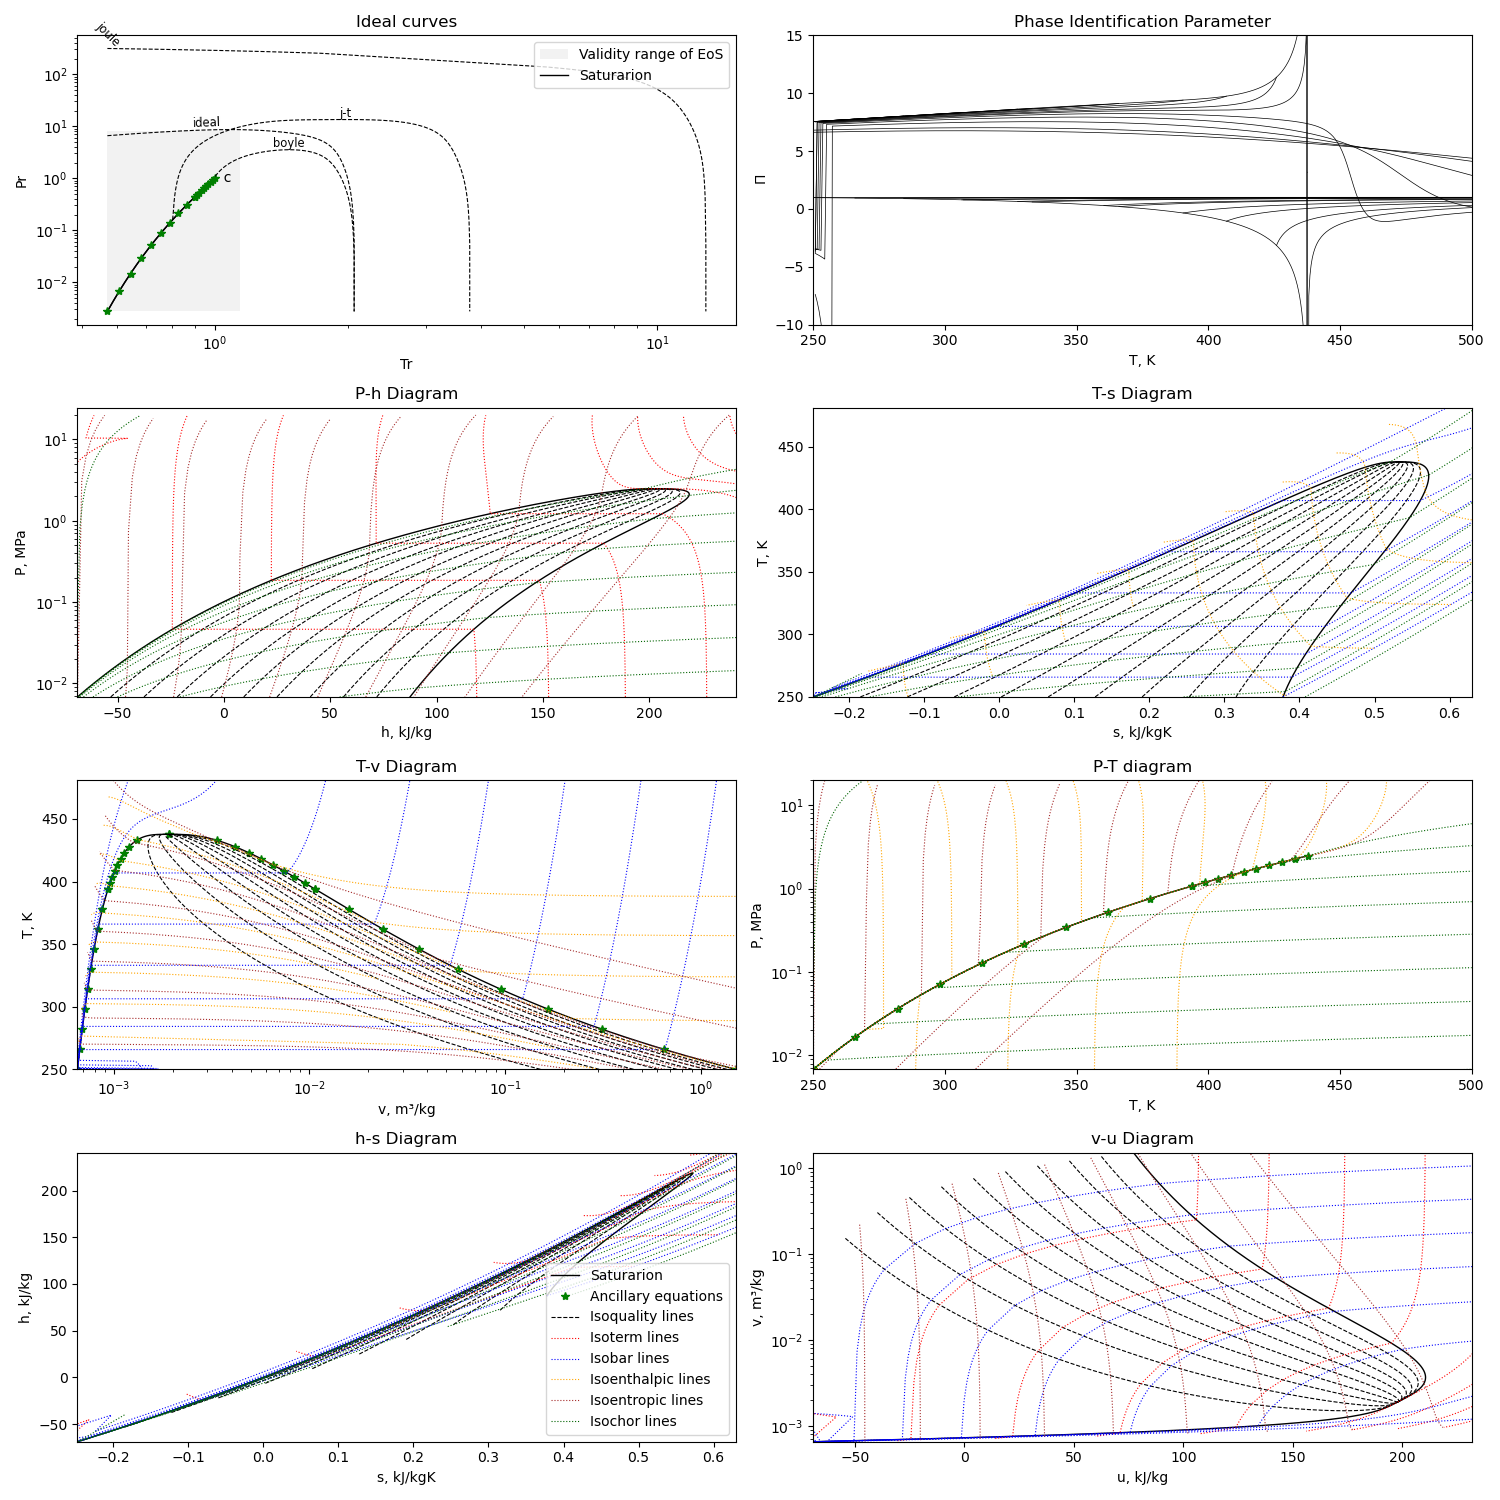
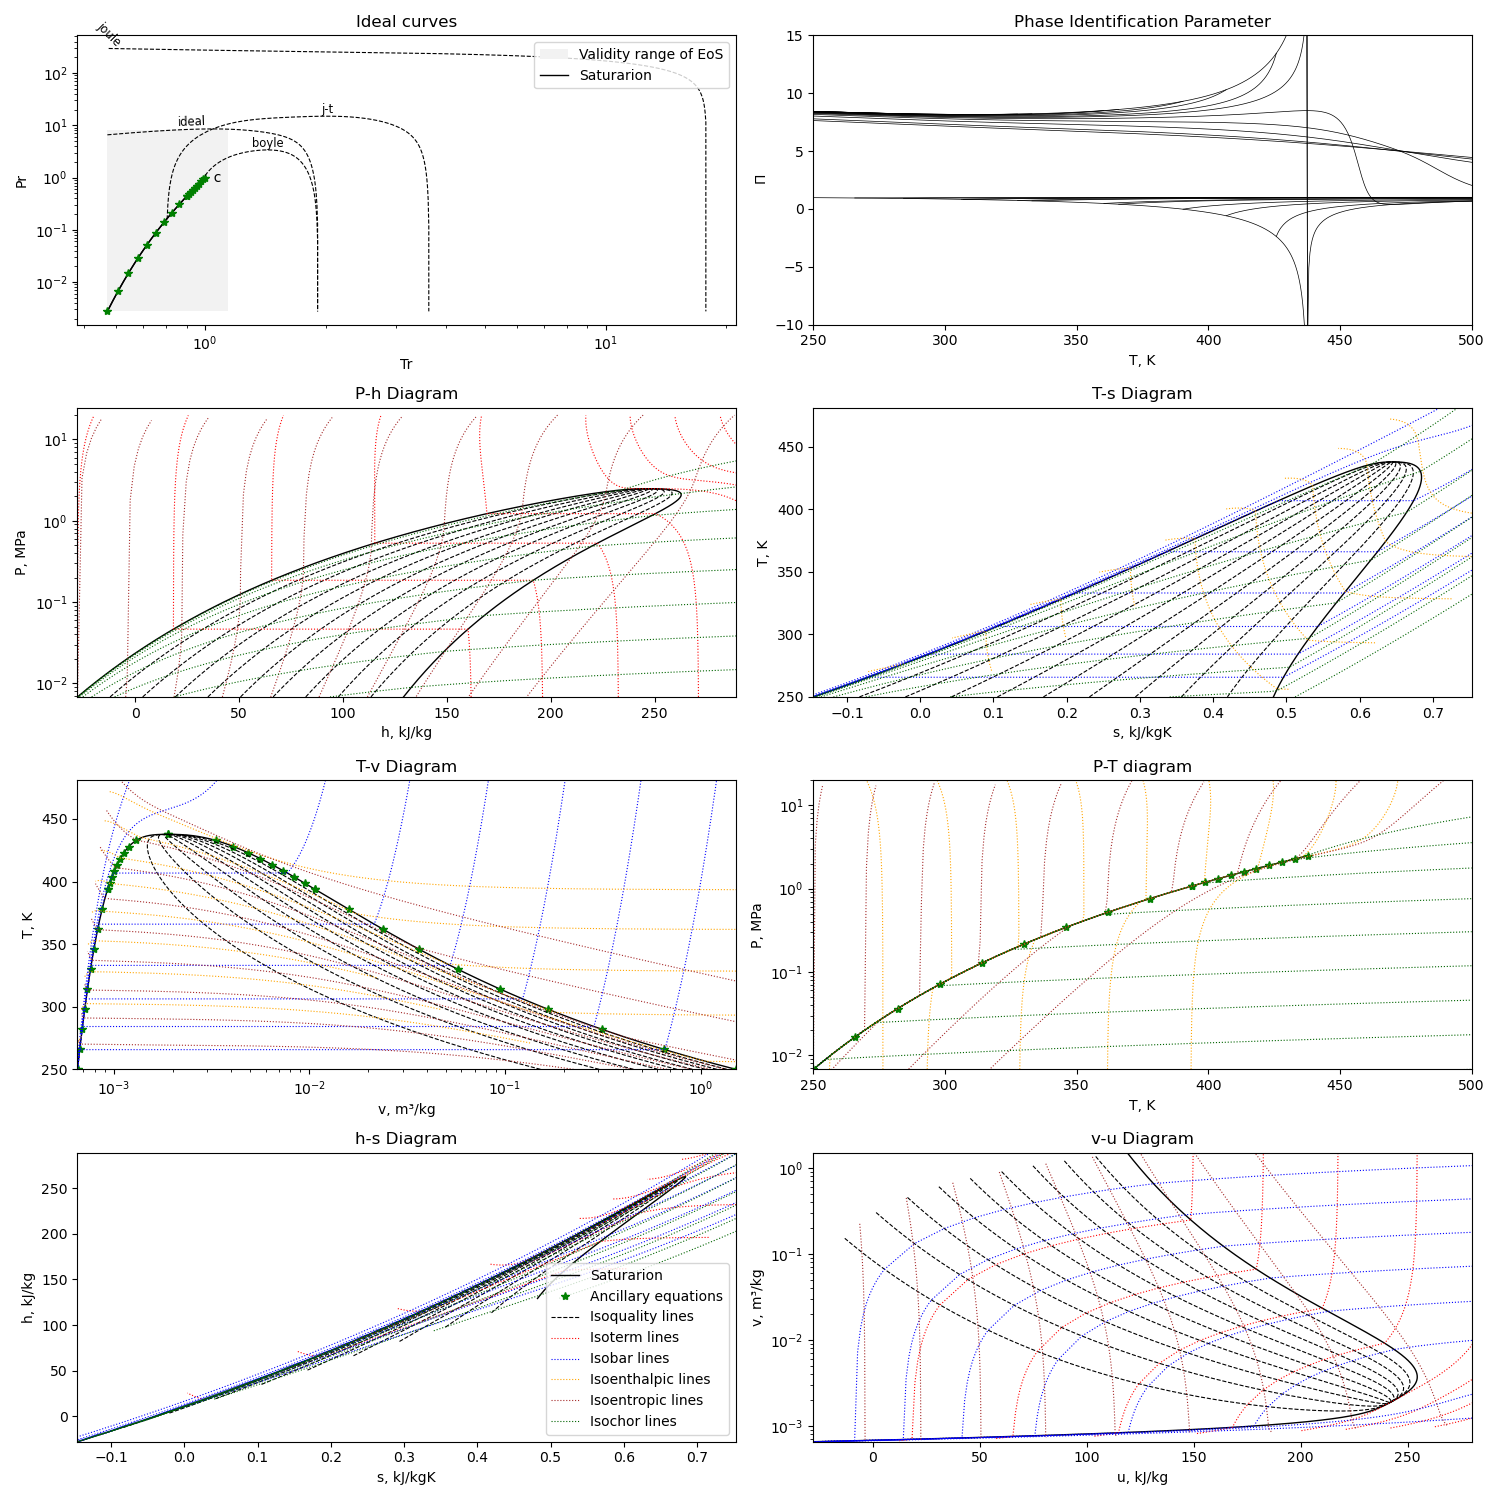
Upgrade Zhou mEoS correlation for RE347mcc

diff --git a/lib/mEoS/RE347mcc.py b/lib/mEoS/RE347mcc.py
@@ -33,17 +33,17 @@ class RE347mcc(MEoS):
     synonym = "HFE-7000"
     _refPropName = "RE347MCC"
     _coolPropName = ""
-    rhoc = unidades.Density(524.143687088)
+    rhoc = unidades.Density(528.144783936)
     Tc = unidades.Temperature(437.7)
     Pc = unidades.Pressure(2476.2, "kPa")
     M = 200.0548424  # g/mol
     Tt = unidades.Temperature(250)
     Tb = unidades.Temperature(307.349)
-    f_acent = 0.411
+    f_acent = 0.403
     momentoDipolar = unidades.DipoleMoment(3.13, "Debye")
 
-    CP1 = {"ao": 13.09,
-           "ao_exp": [13.78, 14.21], "exp": [2045, 850]}
+    CP1 = {"ao": 17.916,
+           "ao_exp": [0.6505, 0.3794, 21.292], "exp": [21, 7754, 1562]}
 
     zhou = {
         "__type__": "Helmholtz",
@@ -54,31 +54,29 @@ class RE347mcc(MEoS):
                     "ref": "Preliminary equation",
                     "doi": ""},
 
-        "R": 8.314472,
+        "R": 8.3144598,
         "cp": CP1,
         "ref": "NBP",
 
-        "Tmin": Tt, "Tmax": 500.0, "Pmax": 20000.0, "rhomax": 7.662,
+        "Tmin": Tt, "Tmax": 500.0, "Pmax": 20000.0, "rhomax": 9,
 
-        "nr1": [0.0330627, 2.606165, -4.902937, 2.228012, 1.494115, -2.420459,
-                0.160067],
-        "d1": [4, 1, 1, 1, 2, 2, 3],
-        "t1": [1, 0.34, 0.77, 1.02, 0.79, 1.017, 0.634],
+        "nr1": [0.07342, 1.9394, -2.8353, -0.3876, 0.1428],
+        "d1": [4, 1, 1, 2, 3],
+        "t1": [1.0, 0.185, 0.842, 1.0, 0.5],
 
-        "nr2": [1.383893, -2.092005, -0.5904708],
-        "d2": [2, 1, 2],
-        "t2": [1.35, 2.25, 2.5],
-        "c2": [1, 2, 2],
-        "gamma2": [1]*6,
+        "nr2": [-1.979, -2.0455, 0.3085, -2.166, -0.04225],
+        "d2": [1, 3, 2, 2, 7],
+        "t2": [2.74, 2.74, 0.87, 2.77, 1.24],
+        "c2": [2, 2, 1, 2, 1],
+        "gamma2": [1]*5,
 
-        "nr3": [-0.701794, 2.765425, 0.6860982, -2.208170, 0.1739594,
-                -0.9028007, -0.0213123],
-        "d3": [1, 1, 2, 2, 3, 3, 1],
-        "t3": [2, 1.66, 1.33, 2.0, 1.87, 1.75, 1.05],
-        "alfa3": [0.593, 1.36, 1.73, 1.483, 0.617, 1.596, 9.64],
-        "beta3": [0.0872, 1.176, 1.53, 0.78, 0.088, 1.04, 263.0],
-        "gamma3": [1.06, 1.22, 0.92, 1.08, 1.21, 0.85, 1.12],
-        "epsilon3": [1.12, 0.79, 1.055, 0.5, 0.84, 0.85, 0.91]}
+        "nr3": [3.0317, -1.0685, -0.3598, -0.4525, 0.9488, 0.3184],
+        "d3": [1, 1, 3, 3, 2, 3],
+        "t3": [2.3, 1.74, 2.22, 2.1, 1.85, 0.5],
+        "alfa3": [1.205, 1.19, 0.94, 1.64, 0.92, 1.71],
+        "beta3": [0.53, 2.57, 1.6, 2.56, 1.21, 8.9],
+        "gamma3": [0.9, 0.69, 0.87, 1.22, 0.71, 1.11],
+        "epsilon3": [0.655, 0.9, 0.655, 0.34, 0.745, 0.28]}
 
     eq = (zhou, )
 
@@ -93,16 +91,16 @@ class RE347mcc(MEoS):
 
     _vapor_Pressure = {
         "eq": 3,
-        "n": [-8.0456, 2.6285, -2.7498, -5.4277, -4.3693],
-        "t": [1.0, 1.5, 2., 4.25, 12.8]}
+        "n": [-7.911, 1.4904, -3.0464, -4.9639, -7.7423],
+        "t": [1.0, 1.5, 2.7, 4.8, 13.5]}
     _liquid_Density = {
         "eq": 1,
-        "n": [1.5144, 2.3745, -2.6363, 2.0830, 0.50537],
-        "t": [0.29, 0.85, 1.5, 2.2, 9.]}
+        "n": [3.1002, -3.1869, 8.0538, -7.5947, 2.8275],
+        "t": [0.395, 0.75, 1.15, 1.5, 2.15]}
     _vapor_Density = {
         "eq": 2,
-        "n": [-2.0640, -6.4226, -18.982, -58.689, -117.64, -253.93],
-        "t": [0.321, 0.96, 2.75, 5.9, 12., 22.]}
+        "n": [-3.2144, -7.0853, -23.82, -69.536, -182.42,],
+        "t": [0.4, 1.21, 3.19, 6.65, 14.0, 27.85]}
 
     trnECS = {"__name__": "Huber (2018)",
 
